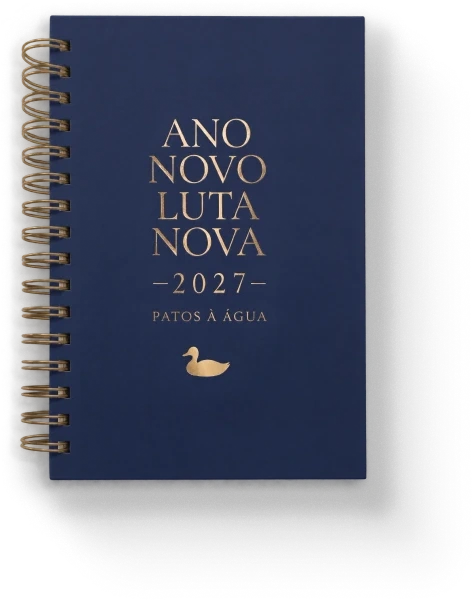
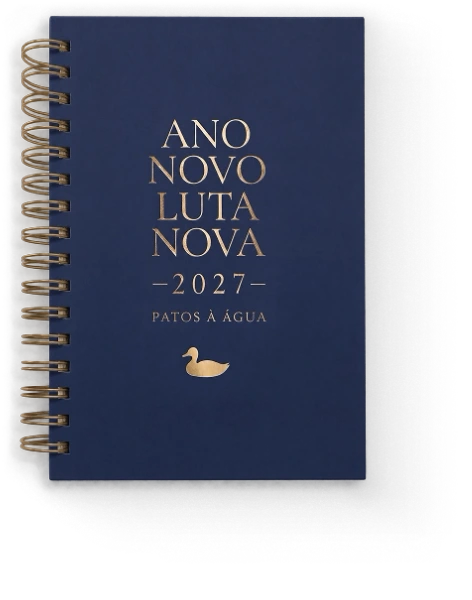
Fit the new Classic cover to the old book frame and soften its shadow
The cover is now built from the final Classic artwork, scaled so the book
keeps the same size and position as before in the hero and in the Explore
section, and the shadow fades out before the image edge so it no longer
ends in a visible line.

diff --git a/src/sections/Explore.tsx b/src/sections/Explore.tsx
@@ -33,7 +33,7 @@ const COVERS: Record<"color" | "classica", Cover> = {
     src: capaClassica,
     alt: "Capa da Edição Clássica",
     img: { w: 472, h: 600 },
-    book: { x: 21, y: 16, w: 345, h: 464 },
+    book: { x: 21, y: 16, w: 344, h: 464 },
   },
 };
 
